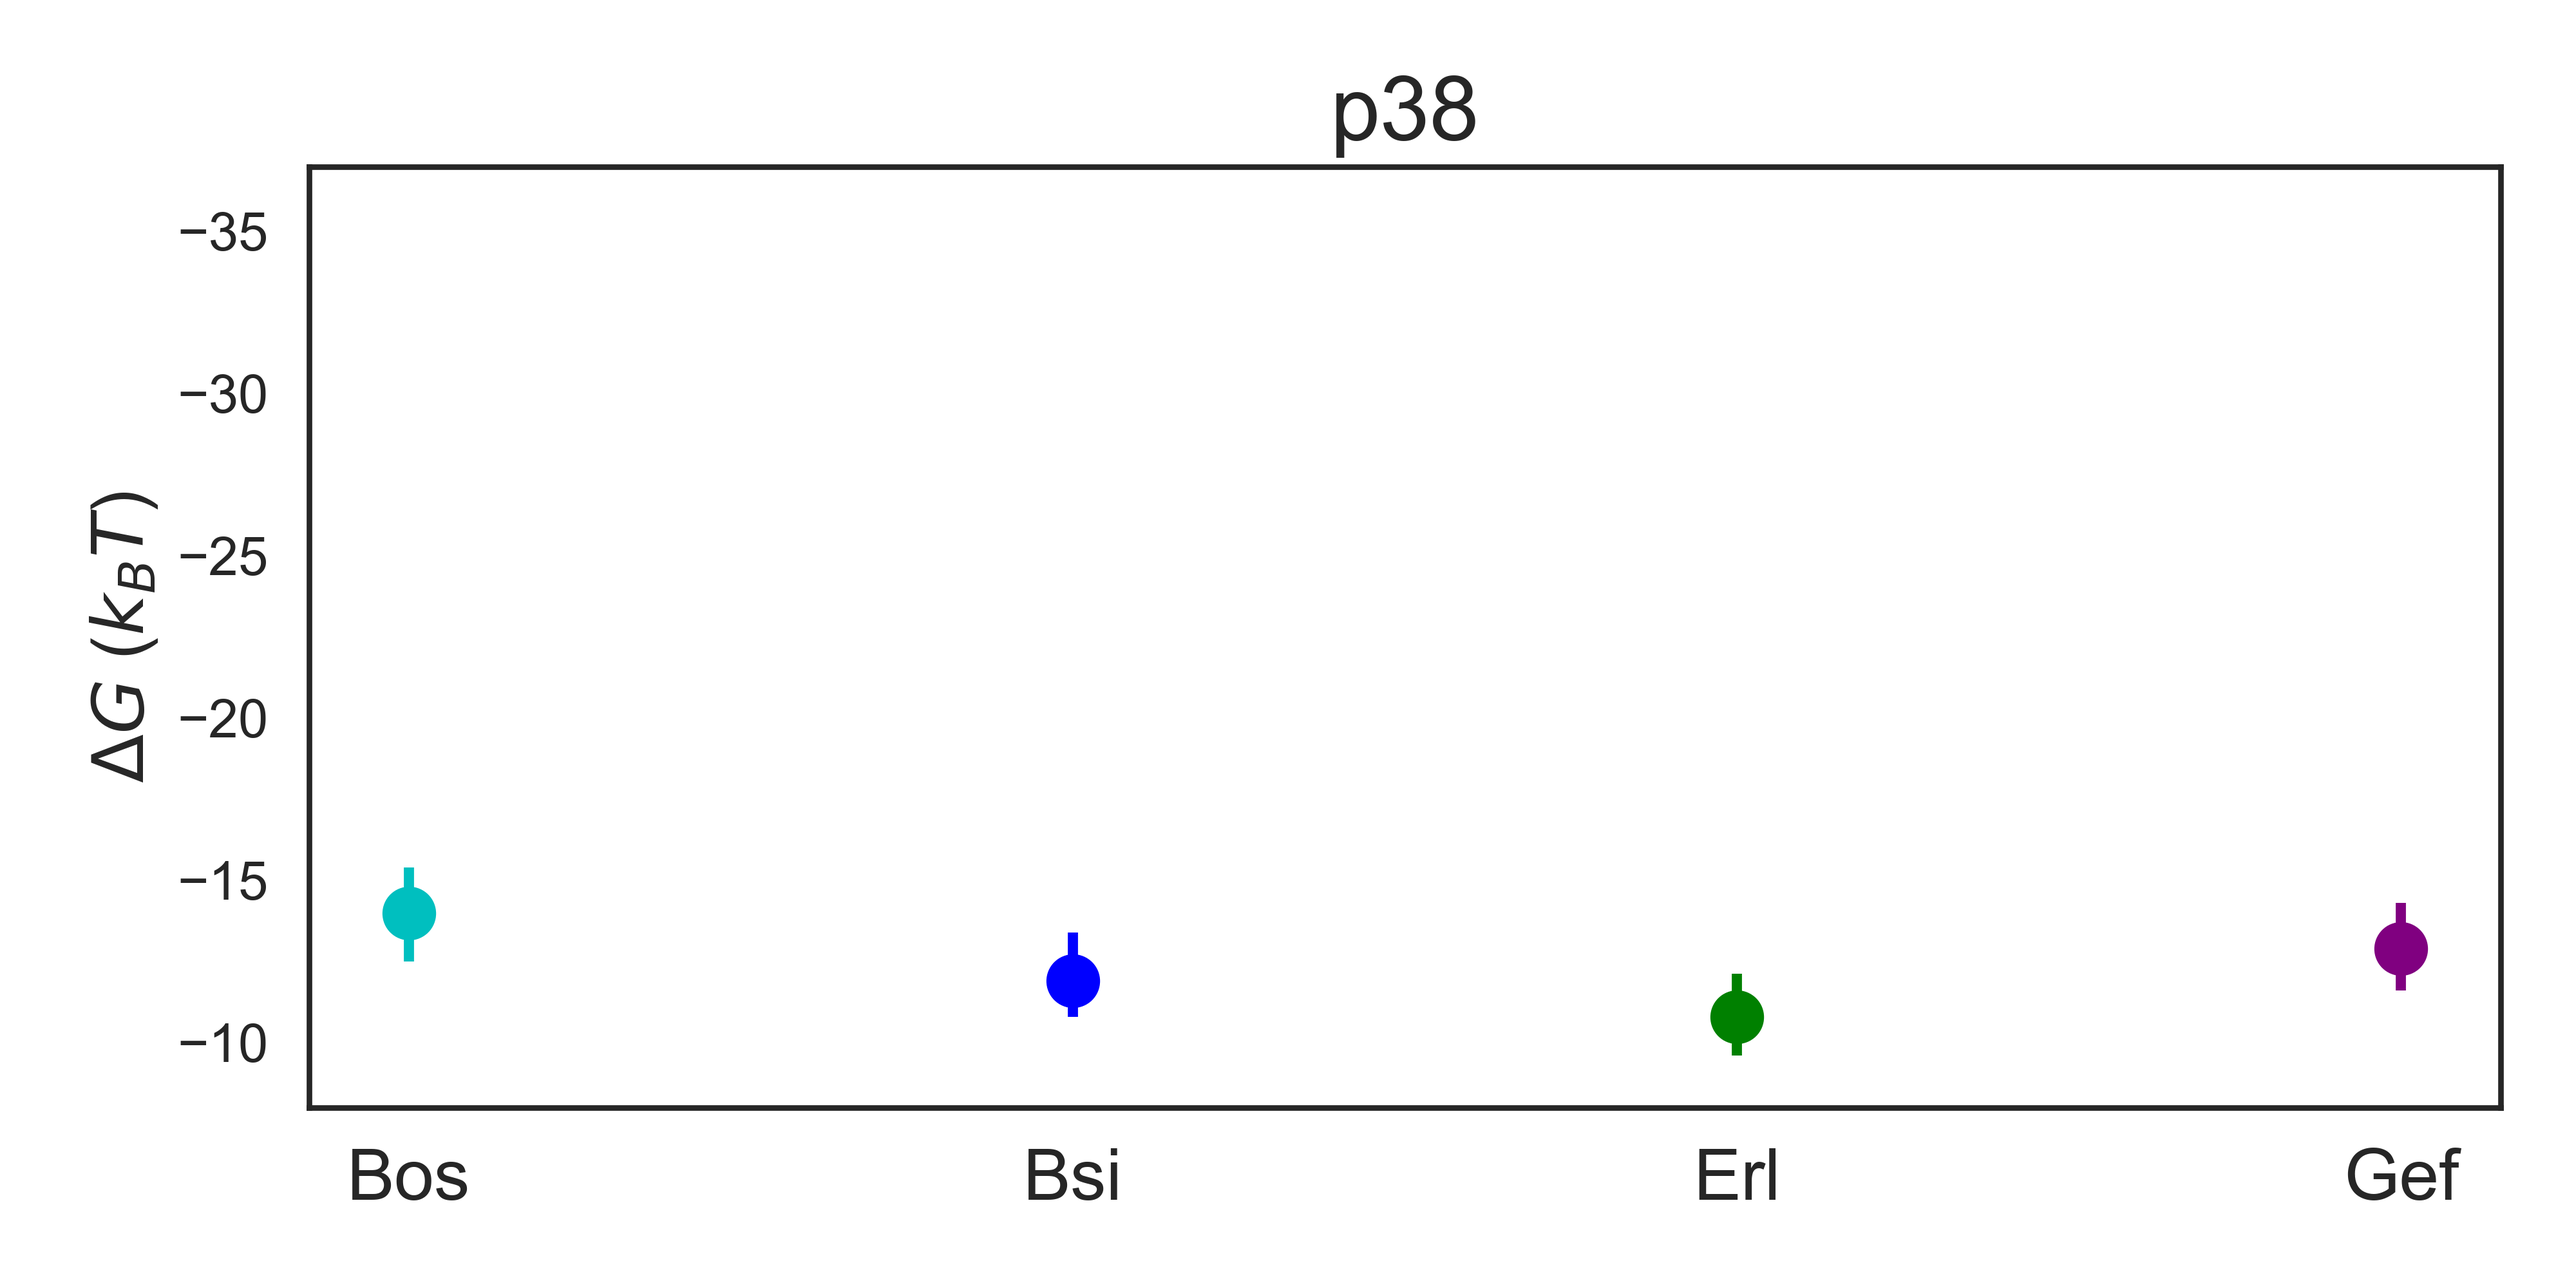
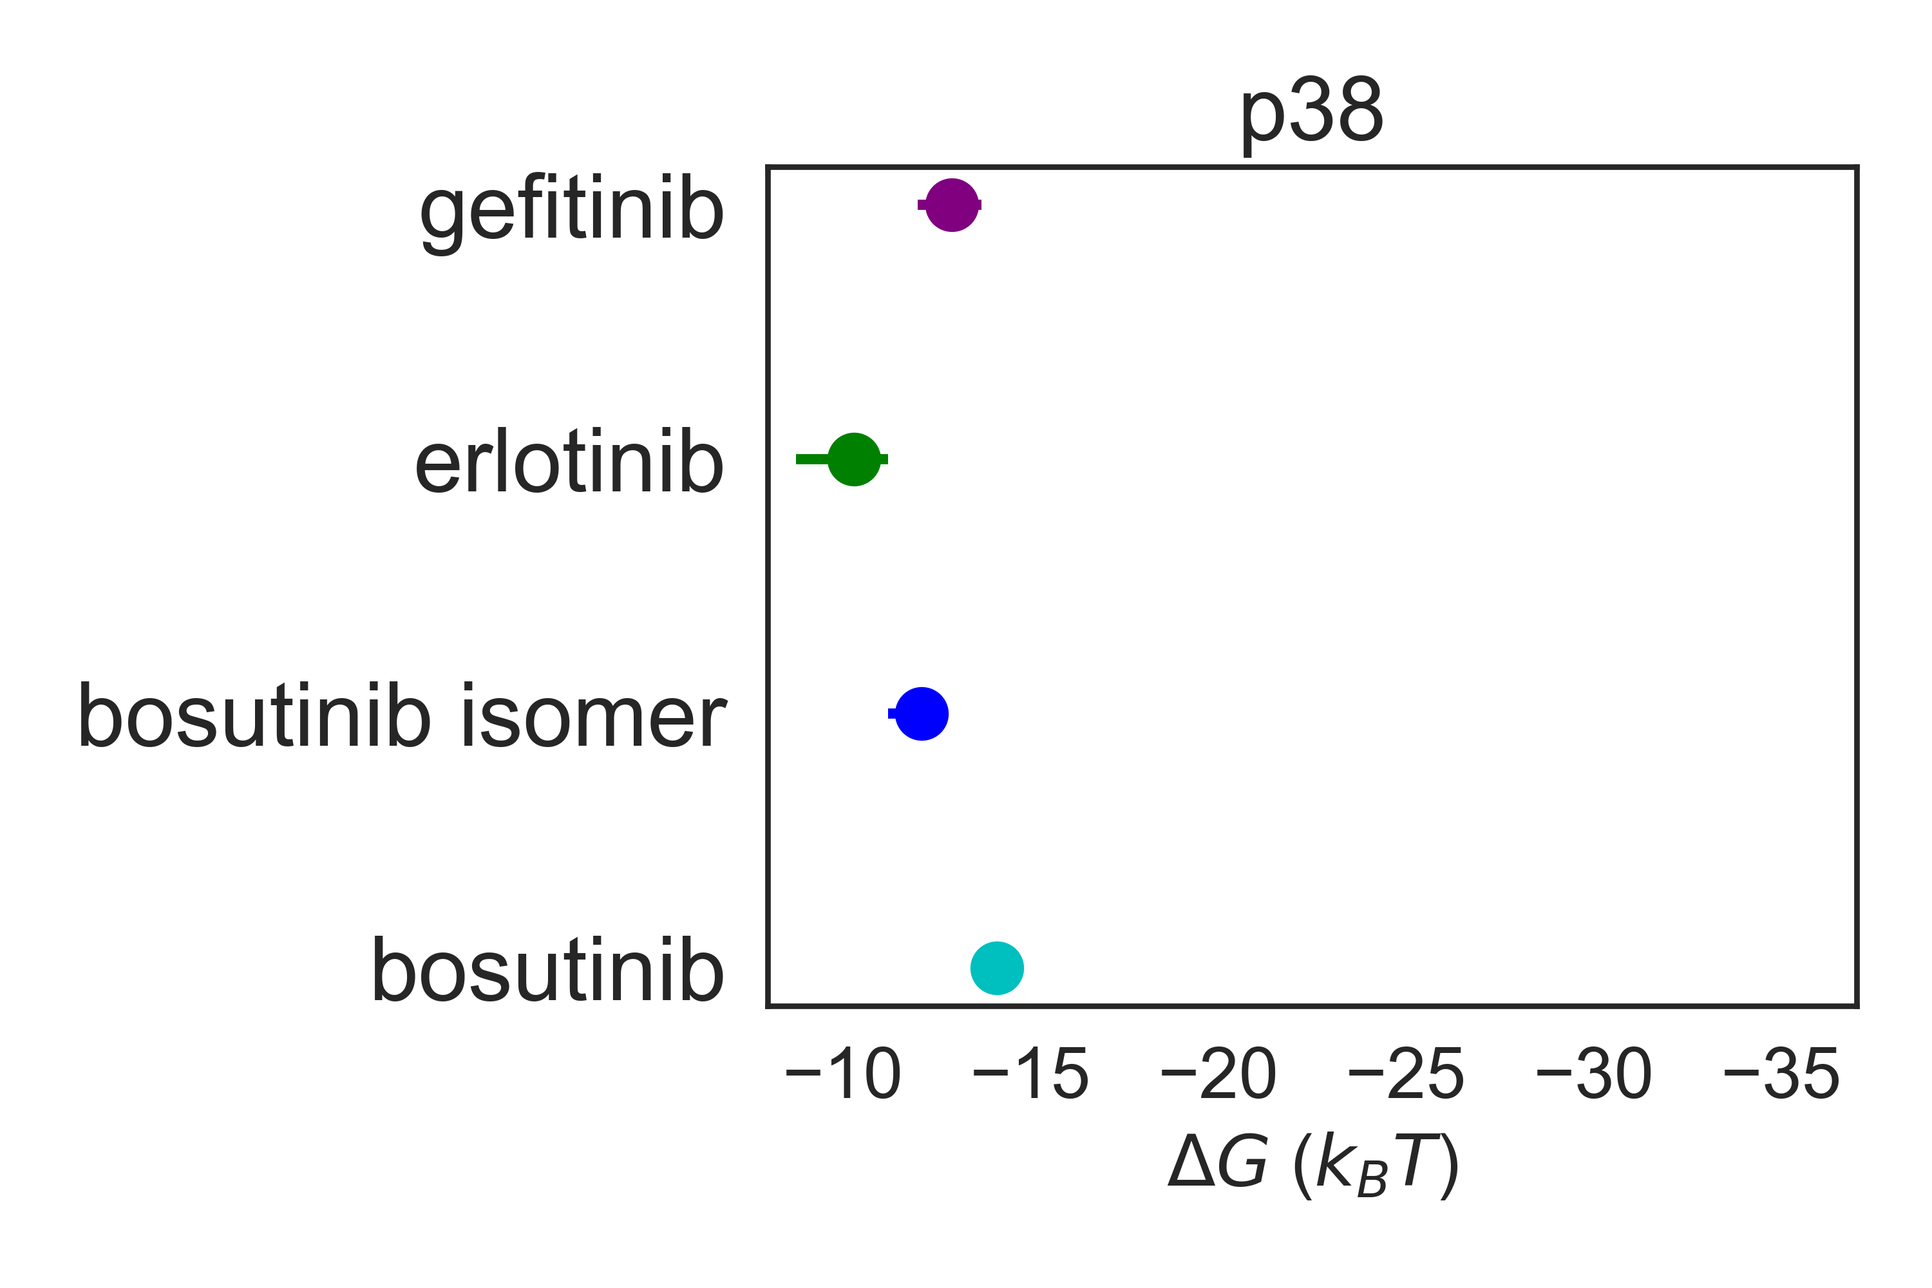
update delG compare plots

diff --git a/figures/Figure4/generate_Src_delG_compare.py b/figures/Figure4/generate_Src_delG_compare.py
@@ -1,9 +1,10 @@
 #Src WT and GK
 #Analysis conducted on lilac, here results are taken from output json files
 #quickmodel --inputs inputs_multiple_well_single_wv_Src_4ligs --type singlet --nsamples 100000
-# Just to note: 'P_error'       :  0.35,
+# Just to note: 'P_error'       :  0.15,
 
 import matplotlib.pyplot as plt
+import numpy as np
 
 import seaborn as sns
 sns.set(style='white')
@@ -11,48 +12,59 @@ sns.set_context('talk')
 
 import matplotlib.lines as mlines
 
-# Src "DeltaG_cred_int": "$\\Delta G$ =  -26.6 [-34.2,-19.2] $k_B T$"
-Bos = [-34.2,-26.6,-19.2]
+# Import 95% credibility intervals from json file quickmodel results
+import json
+Bos_file = 'mwsw/Src-Bosutinib-AB-2019-10-04 09:04.json'
+GK_Bos_file = 'mwsw/Src_T338I-Bosutinib-AB-2019-10-04 09:05.json'
+Bsi_file = 'mwsw/Src-Bosutinib Isomer-CD-2019-10-04 14:42.json'
+GK_Bsi_file = 'mwsw/Src_T338I-Bosutinib Isomer-CD-2019-10-04 15:09.json'
+Erl_file = 'mwsw/Src-Erlotinib-EF-2019-10-04 20:22.json'
+GK_Erl_file = 'mwsw/Src_T338I-Erlotinib-EF-2019-10-04 21:00.json'
+Gef_file = 'mwsw/Src-Gefitinib-GH-2019-10-05 01:56.json'
+GK_Gef_file = 'mwsw/Src_T338I-Gefitinib-GH-2019-10-05 02:22.json'
 
-# SrcGK "DeltaG_cred_int": "$\\Delta G$ =  -26.6 [-34.1,-19.3] $k_B T$",
-GK_Bos = [-34.1,-26.6,-19.3]
+def json_parse(file):
+    with open(file) as json_file:
+        data = json.load(json_file)
+    three = data['DeltaG_cred_int'].split("=")[1].split(" $")[0].strip().split("[")
+    first = float(three[0].strip())
+    inner = three[1].split(",")
+    second = float(inner[0])
+    third = float(inner[1][:-1])
+    lig = [third,
+           first,
+           second]
 
-# "DeltaG_cred_int": "$\\Delta G$ =  -27 [-34.2,-19.7] $k_B T$"
-Bsi = [-34.2,-27,-19.7]
+    print(lig)
+    return(lig)
 
-# "DeltaG_cred_int": "$\\Delta G$ =  -15.1 [-20.7,-13.9] $k_B T$",
-GK_Bsi = [-20.7,-15.1,-13.9]
+Bos = json_parse(Bos_file)
+GK_Bos = json_parse(GK_Bos_file)
+Bsi = json_parse(Bsi_file)
+GK_Bsi = json_parse(GK_Bsi_file)
+Erl = json_parse(Erl_file)
+GK_Erl = json_parse(GK_Erl_file)
+Gef = json_parse(Gef_file)
+GK_Gef = json_parse(GK_Gef_file)
 
-# "DeltaG_cred_int": "$\\Delta G$ =  -14 [-15.3,-12.8] $k_B T$",
-Erl = [-15.3,-14,-12.8]
+labels = ['bosutinib','bosutinib isomer','erlotinib','gefitinib']
 
-# "DeltaG_cred_int": "$\\Delta G$ =  -14 [-15.9,-12.6] $k_B T$",
-GK_Erl = [-15.9,-14,-12.6]
+fig, ax = plt.subplots(figsize=(6,8))
 
-# "DeltaG_cred_int": "$\\Delta G$ =  -13.5 [-14.6,-12.6] $k_B T$",
-Gef = [-14.6,-13.5,-12.6]
+plt.errorbar(Bos[1],0.75,xerr=[[abs(Bos[1]-Bos[2])],[abs(Bos[1]-Bos[0])]], fmt='o',color='c',markersize=12)
+plt.errorbar(GK_Bos[1],1.25,xerr=[[abs(GK_Bos[1]-GK_Bos[2])],[abs(GK_Bos[1]-GK_Bos[0])]], fmt='X',color='c',markersize=12)
+plt.errorbar(Bsi[1],1.75,xerr=[[abs(Bsi[1]-Bsi[2])],[abs(Bsi[1]-Bsi[0])]], fmt='o',color='b',markersize=12)
+plt.errorbar(GK_Bsi[1],2.25,xerr=[[abs(GK_Bsi[1]-GK_Bsi[2])],[abs(GK_Bsi[1]-GK_Bsi[0])]], fmt='X',color='b',markersize=12)
+plt.errorbar(Erl[1],2.75,xerr=[[abs(Erl[1]-Erl[2])],[abs(Erl[1]-Erl[0])]], fmt='o',color='g',markersize=12)
+plt.errorbar(GK_Erl[1],3.25,xerr=[[abs(GK_Erl[1]-GK_Erl[2])],[abs(GK_Erl[1]-GK_Erl[0])]], fmt='X',color='g',markersize=12)
+plt.errorbar(Gef[1],3.75,xerr=[[abs(Gef[1]-Gef[2])],[abs(Gef[1]-Gef[0])]], fmt='o',color='purple',markersize=12)
+plt.errorbar(GK_Gef[1],4.25,xerr=[[abs(GK_Gef[1]-GK_Gef[2])],[abs(GK_Gef[1]-GK_Gef[0])]], fmt='X',color='purple',markersize=12)
 
-# "DeltaG_cred_int": "$\\Delta G$ =  -12.2 [-12.7,-11.8] $k_B T$"
-GK_Gef = [-12.7,-12.2,-11.8]
-
-labels = ['Bos','Bsi','Erl','Gef']
-
-fig, ax = plt.subplots(figsize=(8,4))
-
-plt.errorbar(0.75,Bos[1],yerr=[[abs(Bos[1]-Bos[2])],[abs(Bos[1]-Bos[0])]], fmt='o',color='c',markersize=12)
-plt.errorbar(1.25,GK_Bos[1],yerr=[[abs(GK_Bos[1]-GK_Bos[2])],[abs(GK_Bos[1]-GK_Bos[0])]], fmt='X',color='c',markersize=12)
-plt.errorbar(1.75,Bsi[1],yerr=[[abs(Bsi[1]-Bsi[2])],[abs(Bsi[1]-Bsi[0])]], fmt='o',color='b',markersize=12)
-plt.errorbar(2.25,GK_Bsi[1],yerr=[[abs(GK_Bsi[1]-GK_Bsi[2])],[abs(GK_Bsi[1]-GK_Bsi[0])]], fmt='X',color='b',markersize=12)
-plt.errorbar(2.75,Erl[1],yerr=[[abs(Erl[1]-Erl[2])],[abs(Erl[1]-Erl[0])]], fmt='o',color='g',markersize=12)
-plt.errorbar(3.25,GK_Erl[1],yerr=[[abs(GK_Erl[1]-GK_Erl[2])],[abs(GK_Erl[1]-GK_Erl[0])]], fmt='X',color='g',markersize=12)
-plt.errorbar(3.75,Gef[1],yerr=[[abs(Gef[1]-Gef[2])],[abs(Gef[1]-Gef[0])]], fmt='o',color='purple',markersize=12)
-plt.errorbar(4.25,GK_Gef[1],yerr=[[abs(GK_Gef[1]-GK_Gef[2])],[abs(GK_Gef[1]-GK_Gef[0])]], fmt='X',color='purple',markersize=12)
-
-plt.ylim([-8,-37])
-plt.xticks([1,2,3,4],labels)
-plt.ylabel('$\Delta G$ ($k_B T$)', fontsize=16)
-plt.yticks(fontsize=12)
+plt.xlim([-8,-37])
+plt.yticks([1,2,3,4],labels)
+plt.xlabel('$\Delta G$ ($k_B T$)', fontsize=16)
 plt.xticks(fontsize=16)
+plt.yticks(fontsize=20)
 
 plt.title('Src',fontsize=20)
 
@@ -66,4 +78,3 @@ plt.tight_layout()
 
 plt.savefig('Src_delG_compare.png', dpi=500)
 plt.savefig('Src_delG_compare.pdf')
-

diff --git a/figures/Figure4/generate_Abl_delG_compare.py b/figures/Figure4/generate_Abl_delG_compare.py
@@ -1,7 +1,7 @@
 #Abl WT and GK
 #Analysis conducted on lilac, here results are taken from output json files
 #quickmodel --inputs inputs_multiple_well_single_wv_Abl_4ligs --type singlet --nsamples 100000
-# Just to note: 'P_error'       :  0.35,
+# Just to note: 'P_error'       :  0.15,
 
 import matplotlib.pyplot as plt
 
@@ -11,48 +11,59 @@ sns.set_context('talk')
 
 import matplotlib.lines as mlines
 
-# Abl "DeltaG_cred_int": "$\\Delta G$ =  -27.4 [-34.2,-20.4] $k_B T$",
-Bos = [-34.2,-27.4,-20.4] 
+# Import 95% credibility intervals from json file quickmodel results
+import json
+Bos_file = 'mwsw/Abl-Bosutinib-AB-2019-10-04 09:02.json'
+GK_Bos_file = 'mwsw/Abl_T334I-Bosutinib-AB-2019-10-04 09:03.json'
+Bsi_file = 'mwsw/Abl-Bosutinib Isomer-CD-2019-10-04 12:29.json'
+GK_Bsi_file = 'mwsw/Abl_T334I-Bosutinib Isomer-CD-2019-10-04 11:50.json'
+Erl_file = 'mwsw/Abl-Erlotinib-EF-2019-10-04 17:23.json'
+GK_Erl_file = 'mwsw/Abl_T334I-Erlotinib-EF-2019-10-04 14:39.json'
+Gef_file = 'mwsw/Abl-Gefitinib-GH-2019-10-04 23:24.json'
+GK_Gef_file = 'mwsw/Abl_T334I-Gefitinib-GH-2019-10-04 17:28.json'
 
-# AblGK "DeltaG_cred_int": "$\\Delta G$ =  -26.9 [-34.2,-19.3] $k_B T$",
-GK_Bos = [-34.2,-26.9,-19.3]
+def json_parse(file):
+    with open(file) as json_file:
+        data = json.load(json_file)
+    three = data['DeltaG_cred_int'].split("=")[1].split(" $")[0].strip().split("[")
+    first = float(three[0].strip())
+    inner = three[1].split(",")
+    second = float(inner[0])
+    third = float(inner[1][:-1])
+    lig = [third,
+           first,
+           second]
 
-# "DeltaG_cred_int": "$\\Delta G$ =  -26.6 [-34.1,-18.9] $k_B T$",
-Bsi = [-34.1,-26.6,-18.9] 
+    print(lig)
+    return(lig)
 
-# "DeltaG_cred_int": "$\\Delta G$ =  -26.6 [-34.1,-18.6] $k_B T$",
-GK_Bsi =[-34.1,-26.6 ,-18.6]
+Bos = json_parse(Bos_file)
+GK_Bos = json_parse(GK_Bos_file)
+Bsi = json_parse(Bsi_file)
+GK_Bsi = json_parse(GK_Bsi_file)
+Erl = json_parse(Erl_file)
+GK_Erl = json_parse(GK_Erl_file)
+Gef = json_parse(Gef_file)
+GK_Gef = json_parse(GK_Gef_file)
 
-# "DeltaG_cred_int": "$\\Delta G$ =  -22 [-33.9,-15.4] $k_B T$",
-Erl = [-33.9,-22 ,-15.4] 
+labels = ['bosutinib','bosutinib isomer','erlotinib','gefitinib']
 
-# "DeltaG_cred_int": "$\\Delta G$ =  -24.7 [-34,-17.3] $k_B T$",
-GK_Erl = [-34,-24.7 ,-17.3]
+fig, ax = plt.subplots(figsize=(6,8))
 
-# "DeltaG_cred_int": "$\\Delta G$ =  -14.1 [-15.4,-12.9] $k_B T$"
-Gef = [-15.4,-14.1 ,-12.9]
+plt.errorbar(Bos[1],0.75,xerr=[[abs(Bos[1]-Bos[2])],[abs(Bos[1]-Bos[0])]], fmt='o',color='c',markersize=12)
+plt.errorbar(GK_Bos[1],1.25,xerr=[[abs(GK_Bos[1]-GK_Bos[2])],[abs(GK_Bos[1]-GK_Bos[0])]], fmt='X',color='c',markersize=12)
+plt.errorbar(Bsi[1],1.75,xerr=[[abs(Bsi[1]-Bsi[2])],[abs(Bsi[1]-Bsi[0])]], fmt='o',color='b',markersize=12)
+plt.errorbar(GK_Bsi[1],2.25,xerr=[[abs(GK_Bsi[1]-GK_Bsi[2])],[abs(GK_Bsi[1]-GK_Bsi[0])]], fmt='X',color='b',markersize=12)
+plt.errorbar(Erl[1],2.75,xerr=[[abs(Erl[1]-Erl[2])],[abs(Erl[1]-Erl[0])]], fmt='o',color='g',markersize=12)
+plt.errorbar(GK_Erl[1],3.25,xerr=[[abs(GK_Erl[1]-GK_Erl[2])],[abs(GK_Erl[1]-GK_Erl[0])]], fmt='X',color='g',markersize=12)
+plt.errorbar(Gef[1],3.75,xerr=[[abs(Gef[1]-Gef[2])],[abs(Gef[1]-Gef[0])]], fmt='o',color='purple',markersize=12)
+plt.errorbar(GK_Gef[1],4.25,xerr=[[abs(GK_Gef[1]-GK_Gef[2])],[abs(GK_Gef[1]-GK_Gef[0])]], fmt='X',color='purple',markersize=12)
 
-# "DeltaG_cred_int": "$\\Delta G$ =  -13.5 [-13.5,-13.5] $k_B T$",
-GK_Gef = [-13.5,-13.5,-13.5] 
-
-labels = ['Bos','Bsi','Erl','Gef']
-
-fig, ax = plt.subplots(figsize=(8,4))
-
-plt.errorbar(0.75,Bos[1],yerr=[[abs(Bos[1]-Bos[2])],[abs(Bos[1]-Bos[0])]], fmt='o',color='c',markersize=12)
-plt.errorbar(1.25,GK_Bos[1],yerr=[[abs(GK_Bos[1]-GK_Bos[2])],[abs(GK_Bos[1]-GK_Bos[0])]], fmt='X',color='c',markersize=12)
-plt.errorbar(1.75,Bsi[1],yerr=[[abs(Bsi[1]-Bsi[2])],[abs(Bsi[1]-Bsi[0])]], fmt='o',color='b',markersize=12)
-plt.errorbar(2.25,GK_Bsi[1],yerr=[[abs(GK_Bsi[1]-GK_Bsi[2])],[abs(GK_Bsi[1]-GK_Bsi[0])]], fmt='X',color='b',markersize=12)
-plt.errorbar(2.75,Erl[1],yerr=[[abs(Erl[1]-Erl[2])],[abs(Erl[1]-Erl[0])]], fmt='o',color='g',markersize=12)
-plt.errorbar(3.25,GK_Erl[1],yerr=[[abs(GK_Erl[1]-GK_Erl[2])],[abs(GK_Erl[1]-GK_Erl[0])]], fmt='X',color='g',markersize=12)
-plt.errorbar(3.75,Gef[1],yerr=[[abs(Gef[1]-Gef[2])],[abs(Gef[1]-Gef[0])]], fmt='o',color='purple',markersize=12)
-plt.errorbar(4.25,GK_Gef[1],yerr=[[abs(GK_Gef[1]-GK_Gef[2])],[abs(GK_Gef[1]-GK_Gef[0])]], fmt='X',color='purple',markersize=12)
-
-plt.ylim([-8,-37])
-plt.xticks([1,2,3,4],labels)
-plt.ylabel('$\Delta G$ ($k_B T$)', fontsize=16)
-plt.yticks(fontsize=12)
+plt.xlim([-8,-37])
+plt.yticks([1,2,3,4],labels)
+plt.xlabel('$\Delta G$ ($k_B T$)', fontsize=16)
 plt.xticks(fontsize=16)
+plt.yticks(fontsize=20)
 
 plt.title('Abl',fontsize=20)
 

diff --git a/figures/Figure4/generate_p38_delG_compare.py b/figures/Figure4/generate_p38_delG_compare.py
@@ -1,7 +1,7 @@
 #p38
 #Analysis conducted on lilac, here results are taken from output json files
 #quickmodel --inputs inputs_multiple_well_single_wv_p38_4ligs --type singlet --nsamples 100000
-# Just to note: 'P_error'       :  0.35,
+# Just to note: 'P_error'       :  0.15,
 
 import matplotlib.pyplot as plt
 
@@ -11,32 +11,48 @@ sns.set_context('talk')
 
 import matplotlib.lines as mlines
 
-# p38  "DeltaG_cred_int": "$\\Delta G$ =  -14 [-15.5,-12.6] $k_B T$",
-Bos = [-15.5,-14 ,-12.6] 
+# Import 95% credibility intervals from json file quickmodel results
+import json
+Bos_file = 'mwsw/p38-Bosutinib-AB-2019-10-04 09:06.json'
+Bsi_file = 'mwsw/p38-Bosutinib Isomer-CD-2019-10-04 12:13.json'
+Erl_file = 'mwsw/p38-Erlotinib-EF-2019-10-04 15:18.json'
+Gef_file = 'mwsw/p38-Gefitinib-GH-2019-10-04 18:51.json'
 
-# "DeltaG_cred_int": "$\\Delta G$ =  -11.9 [-13,-10.4] $k_B T$",
-Bsi = [-13,-11.9 ,-10.4] 
+def json_parse(file):
+    with open(file) as json_file:
+        data = json.load(json_file)
+    three = data['DeltaG_cred_int'].split("=")[1].split(" $")[0].strip().split("[")
+    first = float(three[0].strip())
+    inner = three[1].split(",")
+    second = float(inner[0])
+    third = float(inner[1][:-1])
+    lig = [third,
+           first,
+           second]
 
-# "DeltaG_cred_int": "$\\Delta G$ =  -10.8 [-12,-9.48] $k_B T$",
-Erl = [-12,-10.8 ,-9.48] 
+    print(lig)
+    return(lig)
 
-#  "DeltaG_cred_int": "$\\Delta G$ =  -12.9 [-14.2,-11.5] $k_B T$",
-Gef = [-14.2,-12.9 ,-11.5]
+Bos = json_parse(Bos_file)
+Bsi = json_parse(Bsi_file)
+Erl = json_parse(Erl_file)
+Gef = json_parse(Gef_file)
+
+labels = ['bosutinib','bosutinib isomer','erlotinib','gefitinib']
 
 
-labels = ['Bos','Bsi','Erl','Gef']
+fig, ax = plt.subplots(figsize=(6,4))
 
-fig, ax = plt.subplots(figsize=(8,4))
+plt.errorbar(Bos[1],1,xerr=[[abs(Bos[1]-Bos[2])],[abs(Bos[1]-Bos[0])]], fmt='o',color='c',markersize=12)
+plt.errorbar(Bsi[1],2,xerr=[[abs(Bsi[1]-Bsi[2])],[abs(Bsi[1]-Bsi[0])]], fmt='o',color='b',markersize=12)
+plt.errorbar(Erl[1],3,xerr=[[abs(Erl[1]-Erl[2])],[abs(Erl[1]-Erl[0])]], fmt='o',color='g',markersize=12)
+plt.errorbar(Gef[1],4,xerr=[[abs(Gef[1]-Gef[2])],[abs(Gef[1]-Gef[0])]], fmt='o',color='purple',markersize=12)
 
-plt.errorbar(1,Bos[1],yerr=[[abs(Bos[1]-Bos[2])],[abs(Bos[1]-Bos[0])]], fmt='o',color='c',markersize=12)
-plt.errorbar(2,Bsi[1],yerr=[[abs(Bsi[1]-Bsi[2])],[abs(Bsi[1]-Bsi[0])]], fmt='o',color='b',markersize=12)
-plt.errorbar(3,Erl[1],yerr=[[abs(Erl[1]-Erl[2])],[abs(Erl[1]-Erl[0])]], fmt='o',color='g',markersize=12)
-plt.errorbar(4,Gef[1],yerr=[[abs(Gef[1]-Gef[2])],[abs(Gef[1]-Gef[0])]], fmt='o',color='purple',markersize=12)
-plt.xticks([1,2,3,4],labels)
-plt.ylim([-8,-37])
-plt.ylabel('$\Delta G$ ($k_B T$)', fontsize=16)
-plt.yticks(fontsize=12)
+plt.xlim([-8,-37])
+plt.yticks([1,2,3,4],labels)
+plt.xlabel('$\Delta G$ ($k_B T$)', fontsize=16)
 plt.xticks(fontsize=16)
+plt.yticks(fontsize=20)
 
 plt.title('p38',fontsize=20)
 
